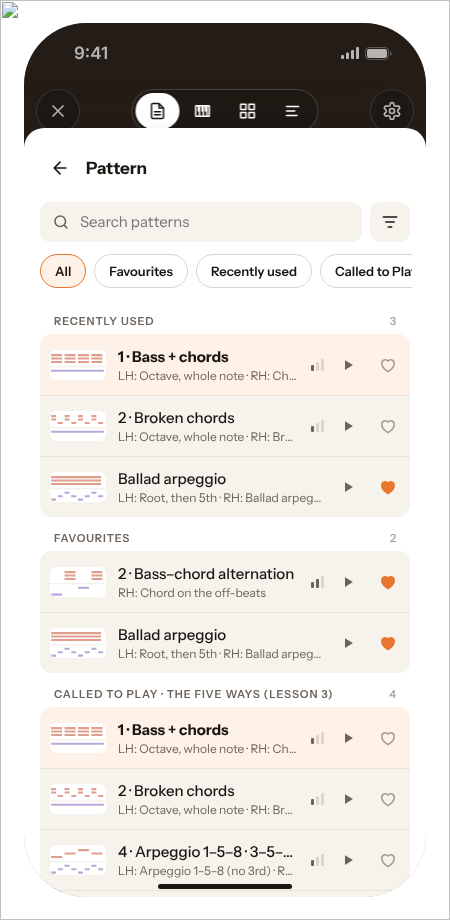
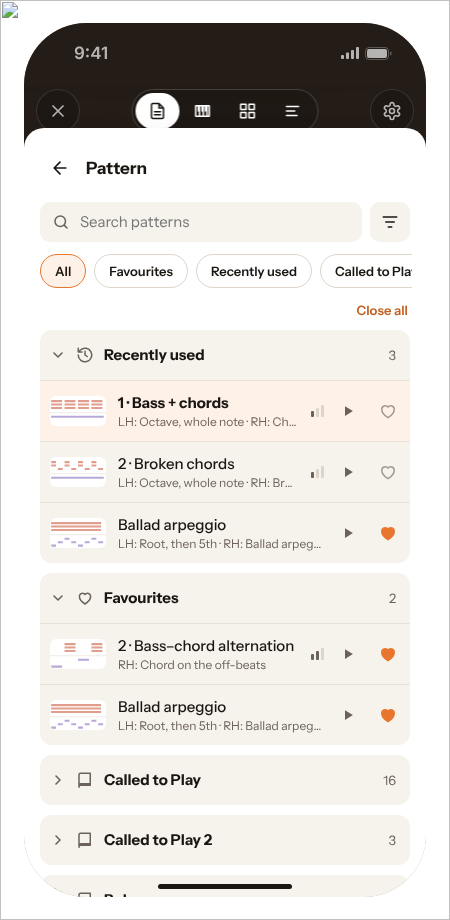
R37 canvas: the Pattern page's sections become folders
Each book is one folder that folds by its header, its groups inside; Recently
used and Favourites open, the books closed; Mine holds the learner's own
folders; Close all / Open all. Folding replaces Show all.

Claude-Session: https://claude.ai/code/session_01BrtnH1Yf7S8aVU4w6rFSCU

diff --git a/.scratch/r37/plan/pace-and-settings.md b/.scratch/r37/plan/pace-and-settings.md
@@ -73,15 +73,21 @@ patterns in our app, and how should they be organized like a library"; the two-a
   Lines and runs (what the right hand plays, Smart Pianist's Block and Arpeggio families); **Feel** All · Straight ·
   Swing; the foot **Reset** (the place chip stays) and **Show n patterns**. Each filter on shows as a chip under the
   place chips with ×. The book is chosen only by its chip, never in the page too.
-- The list by Book: **Recently used** (the last three chosen, the playing one first) and **Favourites** while nothing
-  narrows, then each book's shelf as Practice names it (Called to Play · The five ways (lesson 3), … Rhythm styles,
-  Mine last), its count at the heading's end, folded after five with **Show all n**. By Name one A–Z list; by Level
-  Beginner, Intermediate, Advanced, Not graded. A row: the two-hand roll, the name over its hands line (LH: … · RH:
+- The list by Book is folders (owner: "but what about foldable sections or folders"), each a card whose header
+  folds it: a chevron, its icon, its name and its count. **Recently used** (the last three chosen, the playing one
+  first) and **Favourites** first and open while nothing narrows; then one folder per book, closed at first, so the
+  page opens as an overview: **Called to Play** (16; inside, The five ways (lesson 3) and Right-hand techniques under
+  their headings), **Called to Play 2**, **Bobrova**, **Gorshkov**, **Rhythm styles**, **Mine** (the learner's own
+  folders, made in Practice, under their headings). What is open is remembered. A search, a filter or a place chip
+  opens every folder that holds a match, and folding then is for that view only. **Close all** / **Open all** above
+  the list. By Name one A–Z list; by Level Beginner, Intermediate, Advanced, Not graded, each a folder too.
+  Folding replaces "Show all n". A row: the two-hand roll, the name over its hands line (LH: … · RH:
   …), the level mark, **Listen** ▶, **Favourite** ♡; the playing one highlighted and bold; a tap chooses it and goes
   back to Song. Nothing matches: **No patterns match**. Last **Manage patterns ›** to Practice › Accompaniment, where
   patterns are made, renamed and hidden. A pattern that cannot play the song's meter or chords is left out
   (`fit.ts`). The app's Filter sheet gains Texture and Feel, so both read alike. Drawings:
-  `.scratch/r37/drawings/pattern-library.png`, `pattern-library-filter.png`, `pattern-library-filtered.png`.
+  `.scratch/r37/drawings/pattern-library.png`, `pattern-library-folder-open.png`, `pattern-library-filter.png`,
+  `pattern-library-filtered.png`.
 - **No Voicing and no Swing** ("what are these swings and chords options"). Voicing (Close · Drop 2) is how far the
   chord's notes are spread, Drop 2 a jazz spacing; Swing plays pairs of 8ths long-short. Both are arranger's
   choices: each pattern carries its own spacing and feel, and the swung patterns are patterns of their own.

diff --git a/.claude/skills/owner-way/references/feedback-log.md b/.claude/skills/owner-way/references/feedback-log.md
@@ -103,8 +103,8 @@ owner's, typos fixed.
     Practice.
   - The Player's Pattern page is a library: Search; place chips at the top (All, Favourites, Recently used, each
     book, Mine; the owner likes them); a Sort and filter page (Sort by, Level, Texture, Feel,
-    Reset · Show n) with its count on the button and removable chips; Recently used and Favourites first, then the
-    books' shelves with counts, folded after five; rows with roll, hands line, level, Listen, heart. Never chips by
+    Reset · Show n) with its count on the button and removable chips; folders that fold by their header (Recently
+    used and Favourites open, each book closed, its groups inside, Mine's own folders), Close all / Open all; rows with roll, hands line, level, Listen, heart. Never chips by
     kind, stars or cards two a row.
   - The metronome is Flat's: one Off · Count-in · On choice under the tempo, and Metronome sound › opens a page
     (sound list with a check, Volume, Back). A choice with its own list opens a page, as Flat's Playback options do.
